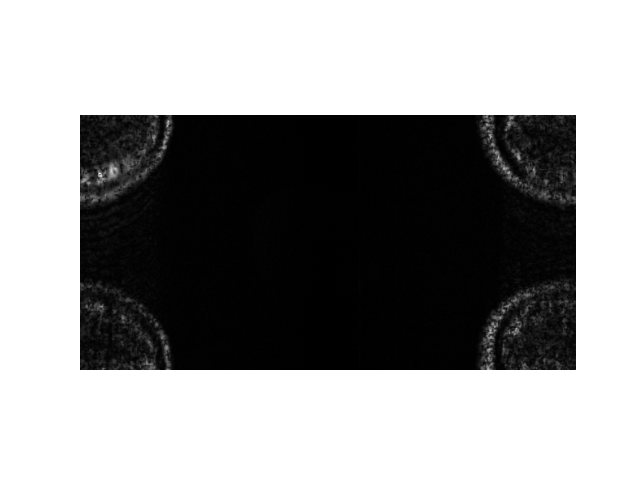
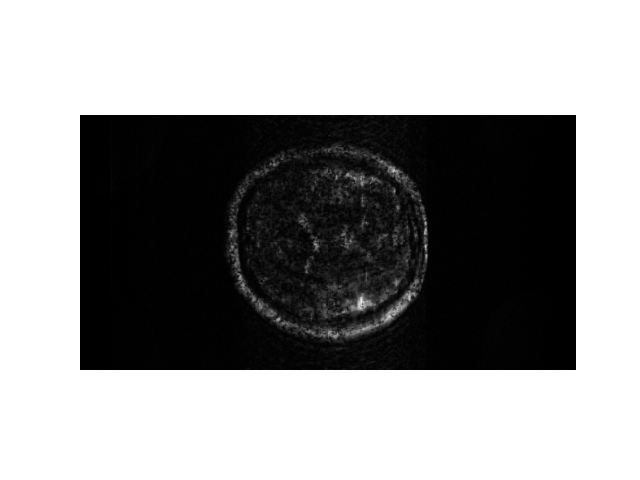
test recons 1e5 iters

diff --git a/my_CDLNet/sense.py b/my_CDLNet/sense.py
@@ -29,7 +29,7 @@ def sense(y, acceleration_map, smaps, verbose):
     EHE = partial(eHe, mri_encoding = E, mri_decoding = EH)
     # If we have y = Ex, then we want to work with E^Hy = E^HEx, i.e. our symmetric operator is EHE
     EHy = EH(y)
-    return conj_grad(EHE, EH(y), tol = 1e-6, max_iter = 1e3, verbose = verbose)
+    return conj_grad(EHE, EH(y), tol = 1e-6, max_iter = 1e5, verbose = verbose)
 
 def main(args):
     ngpu = torch.cuda.device_count()
@@ -62,11 +62,12 @@ def main(args):
 
     # Mask kspace
     kspace_masked = torch.einsum('jj, ijk -> ijk', mask, kspace)
-    mri_recon, tol_reached = sense(kspace_masked, mask, smaps, verbose = True)
+    mri_recon, tol_reached = sense(kspace_masked, mask, smaps, verbose = False)
 
     breakpoint()
-    gnd_truth = mri_decoding(kspace, mask, smaps)
-    zero_filled_recon = mri_decoding(kspace_masked, mask, smaps)
+    gnd_truth = fft.fftshift(mri_decoding(kspace, mask, smaps))
+    zero_filled_recon = fft.fftshift(mri_decoding(kspace_masked, mask, smaps))
+    mri_recon = fft.fftshift(mri_recon)
     saveimg(zero_filled_recon, "test_zerofilled.png")
     saveimg(mri_recon, "test_sense.png")
     saveimg(gnd_truth, "gnd_truth.png")
